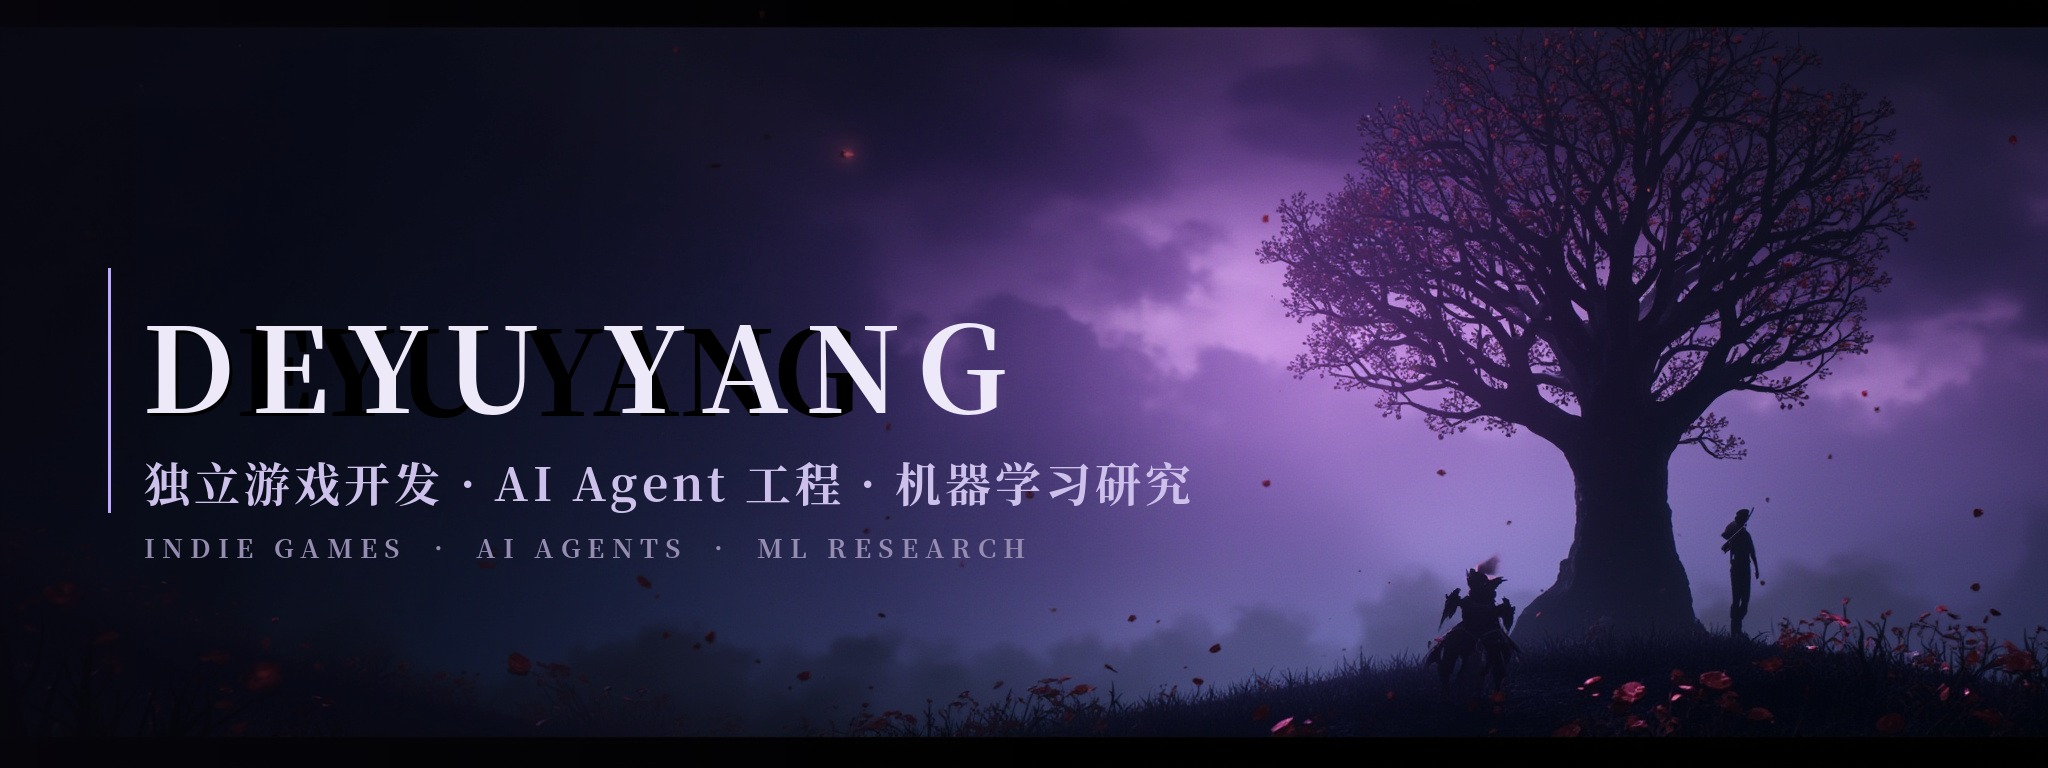
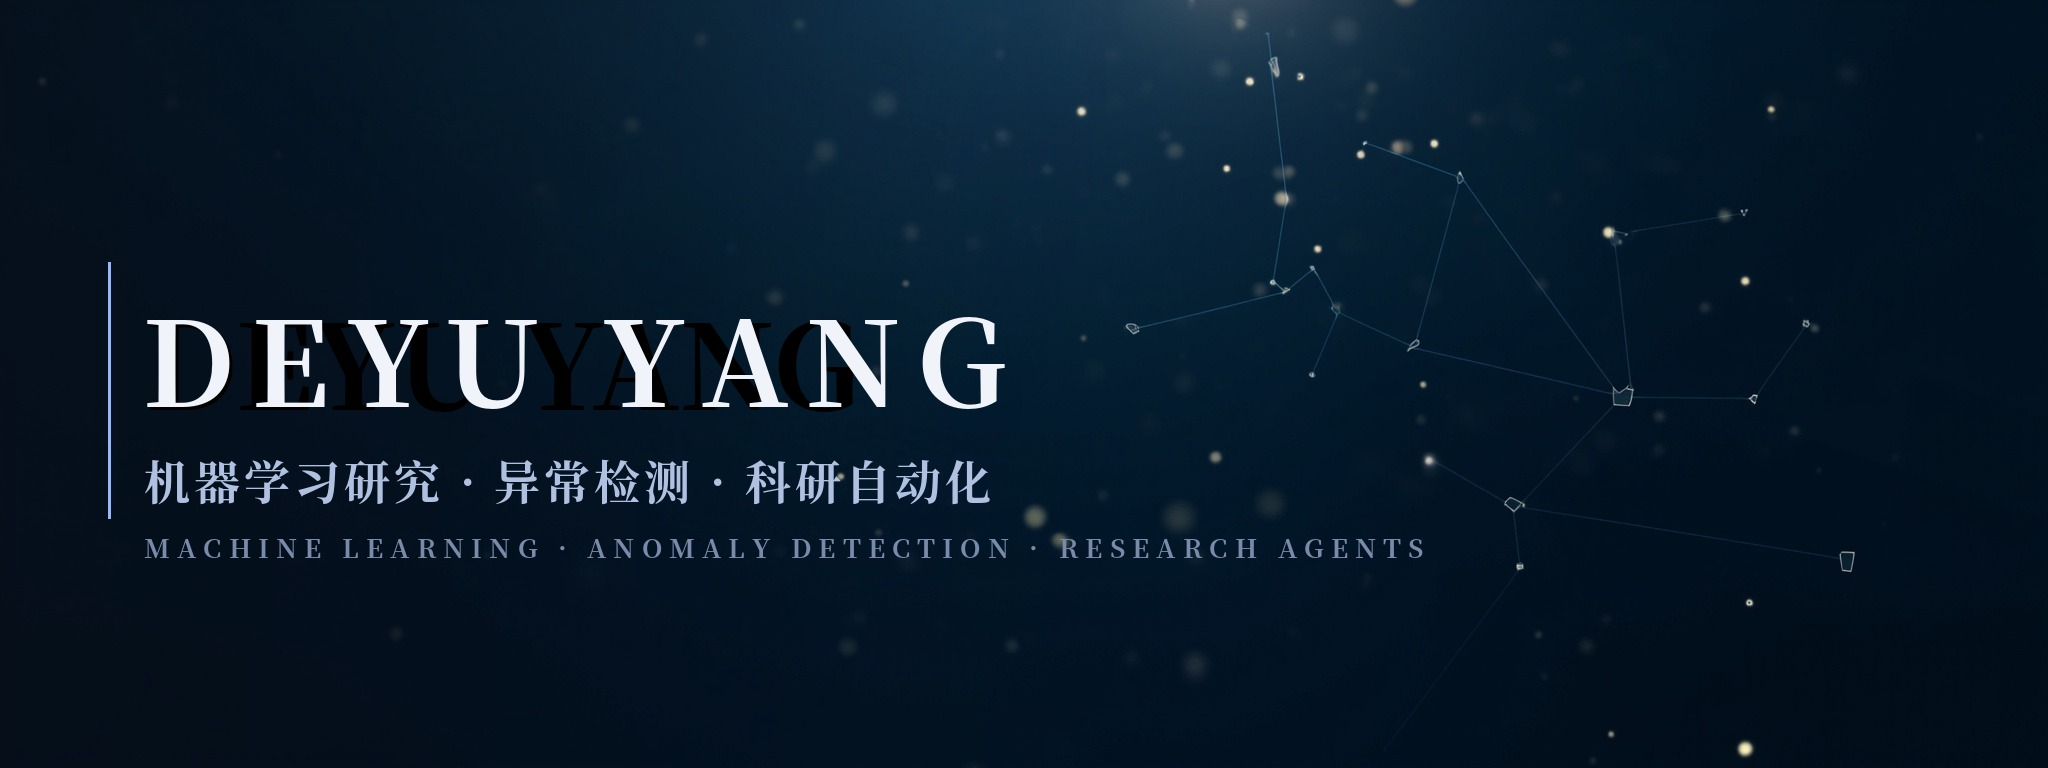
refactor: 主页改版为学术求职向 —— Publications/研究方向优先,游戏降为工程实践

diff --git a/README.md b/README.md
@@ -2,70 +2,69 @@
 
 <img src="assets/banner.jpg" alt="Deyu Yang" width="100%">
 
-[![](https://readme-typing-svg.demolab.com?font=Noto+Serif+SC&weight=600&size=22&pause=1600&color=C9BFE8&vCenter=true&random=false&width=640&lines=%E6%89%8B%E5%86%99+12500+%E8%A1%8C+Canvas+%E7%9A%84%E5%83%8F%E7%B4%A0+ARPG+%E4%BD%9C%E8%80%85;%E8%AE%A9+Agent+%E4%BB%8E%E6%96%87%E7%8C%AE%E7%BB%BC%E8%BF%B0%E4%B8%80%E8%B7%AF%E5%86%99%E5%88%B0+LaTeX+%E6%88%90%E7%A8%BF;%E5%81%9A+Training-Free+%E5%BC%82%E5%B8%B8%E6%A3%80%E6%B5%8B%E7%A0%94%E7%A9%B6;Good%20code%20is%20a%20loop%20%3E%20write%2C%20measure%2C%20refine.)](https://git.io/typing-svg)
+**Deyu Yang** · 机器学习方向 · 广东东莞
 
-**Deyu Yang** · 广东东莞 · 独立开发者
+研究做得扎实,工程做得干净 —— 相信可复现的实验与可维护的代码同样重要。
 
-**中文** / [English](#-english) · 我造游戏、造工具、也做研究 —— 相信「不重复造轮子」和「必要时亲手造引擎」并不矛盾。
+**中文** / [English](#-english)
 
 </div>
 
 ---
 
-## 🔭 正在做
+## 📄 论文发表 · Publications
 
-- 🌸 **[回声 · 枯荣之环](https://github.com/Deyu008/witherbloom-cycle)** — 无引擎、纯手写 Canvas 2D 的像素风动作 RPG：四章节双线结局（击败 / 释怀 BOSS）、Hades 式祝福构筑、程序生成地牢、WebAudio 全合成音频。**~12,500 行、53 个 ES 模块、零运行时依赖、216 项回归测试。**
-- 🧪 **[paperlab](https://github.com/Deyu008/paperlab)** — 开源论文研究 Agent harness：文献综述 → 实验规划 → 沙箱执行 → 结果解读 → LaTeX 成稿 → 自动同行评审。
-- 🔬 **[ALF](https://github.com/Deyu008/ALF)** — Sharpness-Aware Adaptive Layer Fusion，Training-Free 异常检测。
-- 📊 **[visulite](https://github.com/Deyu008/visulite)** — 科研数据快速可视化 / 预处理 / 图表导出工具。
+- **ALF: Sharpness-Aware Adaptive Layer Fusion for Training-Free Anomaly Detection**
+  *IEEE ICIP 2026* · 官方代码 → [Deyu008/ALF](https://github.com/Deyu008/ALF)
 
-## 🛠 技术栈
+## 🔬 研究方向 · Research Interests
+
+- **异常检测（Anomaly Detection）** — 免训练（training-free）推理时自适应、多尺度层融合、锐度感知（sharpness-aware）方法
+- **AI for Research / LLM Agents** — 科研工作流自动化的**可靠性**：实验结果可追溯、结构化防造假（anti-fabrication）设计
+- **科研工具链** — 数据处理 / 可视化 / 论文写作管线
+
+## 🚀 精选项目 · Selected Projects
+
+| 项目 | 说明 |
+|:---|:---|
+| **[paperlab](https://github.com/Deyu008/paperlab)** | 开源论文研究 Agent harness:文献综述 → 预注册实验计划 → 沙箱执行 → 结果解读 → LaTeX 成稿 → 多角色评审。核心是**结构化防造假**:数字必须来自实验记录、引用必须可审计;两个真实研究问题端到端验证。TypeScript,130 项测试,MIT |
+| **[ALF](https://github.com/Deyu008/ALF)** | ICIP 2026 论文官方代码 —— training-free 异常检测的自适应层融合 |
+| **[visulite](https://github.com/Deyu008/visulite)** | 科研数据快速可视化 / 预处理 / 图表导出工具(Python) |
+| **[witherbloom-cycle](https://github.com/Deyu008/witherbloom-cycle)** | 工程实践:无引擎手写 Canvas 2D 像素 ARPG —— 自研渲染(离屏烘焙、对象池稳态零分配)、分离轴瓦片碰撞、WebAudio 实时合成音频;~12,500 行 / 53 模块 / 零运行时依赖 / 216 项回归测试 |
+
+## 🛠 技术栈 · Skills
 
 <p>
-<img src="https://img.shields.io/badge/TypeScript-3178C6?style=for-the-badge&logo=typescript&logoColor=white" alt="TypeScript">
-<img src="https://img.shields.io/badge/JavaScript-F7DF1E?style=for-the-badge&logo=javascript&logoColor=black" alt="JavaScript">
-<img src="https://img.shields.io/badge/Kotlin-7F52FF?style=for-the-badge&logo=kotlin&logoColor=white" alt="Kotlin">
 <img src="https://img.shields.io/badge/Python-3776AB?style=for-the-badge&logo=python&logoColor=white" alt="Python">
+<img src="https://img.shields.io/badge/PyTorch-EE4C2C?style=for-the-badge&logo=pytorch&logoColor=white" alt="PyTorch">
+<img src="https://img.shields.io/badge/TypeScript-3178C6?style=for-the-badge&logo=typescript&logoColor=white" alt="TypeScript">
+<img src="https://img.shields.io/badge/LaTeX-008080?style=for-the-badge&logo=latex&logoColor=white" alt="LaTeX">
 </p>
 <p>
-<img src="https://img.shields.io/badge/Canvas_2D-自定义引擎-8F7BE0?style=for-the-badge&logo=html5&logoColor=white" alt="Canvas 2D">
-<img src="https://img.shields.io/badge/WebAudio-实时合成-D9730D?style=for-the-badge&logo=webaudio&logoColor=white" alt="WebAudio">
-<img src="https://img.shields.io/badge/PyTorch-EE4C2C?style=for-the-badge&logo=pytorch&logoColor=white" alt="PyTorch">
+<img src="https://img.shields.io/badge/Kotlin-7F52FF?style=for-the-badge&logo=kotlin&logoColor=white" alt="Kotlin">
 <img src="https://img.shields.io/badge/Node.js-339933?style=for-the-badge&logo=nodedotjs&logoColor=white" alt="Node.js">
+<img src="https://img.shields.io/badge/JavaScript-F7DF1E?style=for-the-badge&logo=javascript&logoColor=black" alt="JavaScript">
 </p>
 
-## 📊 GitHub 数据
+## 📊 GitHub 数据 · Stats
 
 <div align="center">
-<img src="https://github-readme-stats.vercel.app/api?username=Deyu008&show_icons=true&hide_border=true&bg_color=1a1b27&title_color=c099ff&icon_color=9ece6a&text_color=a9b1d6&ring_color=c099ff" height="165" alt="stats">
-<img src="https://github-readme-streak-stats.herokuapp.com?user=Deyu008&hide_border=true&background=1A1B27&stroke=1A1B27&ring=C099FF&fire=9ECE6A&currStreakLabel=C099FF&sideLabels=A9B1D6&dates=565F89&sideNums=A9B1D6&currStreakNum=B4F9F8" height="165" alt="streak">
+<img src="https://github-readme-stats.vercel.app/api?username=Deyu008&show_icons=true&hide_border=true&bg_color=1a1b27&title_color=7aa2f7&icon_color=9ece6a&text_color=a9b1d6&ring_color=7aa2f7" height="165" alt="stats">
+<img src="https://github-readme-stats.vercel.app/api/top-langs/?username=Deyu008&layout=compact&hide_border=true&bg_color=1a1b27&title_color=7aa2f7&text_color=a9b1d6&langs_count=8" height="165" alt="langs">
 <br>
-<img src="https://github-readme-stats.vercel.app/api/top-langs/?username=Deyu008&layout=compact&hide_border=true&bg_color=1a1b27&title_color=c099ff&text_color=a9b1d6&langs_count=8" height="165" alt="langs">
-</div>
-
-<div align="center">
-<img src="https://github-readme-activity-graph.vercel.app/graph?username=Deyu008&theme=tokyo-night&hide_border=true&area=true&custom_title=贡献曲线" width="100%" alt="activity">
-</div>
-
-<div align="center">
-<picture>
-  <source media="(prefers-color-scheme: dark)" srcset="https://raw.githubusercontent.com/Deyu008/Deyu008/output/github-contribution-grid-snake-dark.svg">
-  <source media="(prefers-color-scheme: light)" srcset="https://raw.githubusercontent.com/Deyu008/Deyu008/output/github-contribution-grid-snake.svg">
-  <img alt="contribution snake" src="https://raw.githubusercontent.com/Deyu008/Deyu008/output/github-contribution-grid-snake-dark.svg">
-</picture>
+<img src="https://github-readme-activity-graph.vercel.app/graph?username=Deyu008&theme=tokyo-night&hide_border=true&area=true" width="100%" alt="activity">
 </div>
 
 ---
 
 <div align="center">
 
-### 🌸 English
+### 🌐 English
 
-**Indie game dev · AI agent tooling · ML research.**
-Author of *Echoes: The Witherbloom Cycle* — a no-engine, hand-written Canvas 2D pixel ARPG (4 chapters, dual-route boss "reconciliation" endings, ~12.5k lines, 216 tests, zero runtime deps). Also building **paperlab**, an open-source paper-research agent harness, and **ALF**, training-free anomaly detection via adaptive layer fusion.
+ML researcher — **IEEE ICIP 2026** author (*ALF: training-free anomaly detection via sharpness-aware adaptive layer fusion*), building **[paperlab](https://github.com/Deyu008/paperlab)**, an open-source paper-research agent harness centered on structural anti-fabrication: every number traceable to a recorded experiment artifact. Also the engineer behind a 12.5k-line, zero-dependency, 216-test hand-written Canvas 2D engine.
 
-*"Don't break the loop — walk into the memory."*
+*Reproducible experiments. Maintainable code.*
 
-<img src="https://komarev.com/ghpvc/?username=Deyu008&style=flat-square&color=8F7BE0&label=visitors" alt="visitors">
+<img src="https://komarev.com/ghpvc/?username=Deyu008&style=flat-square&color=7aa2f7&label=profile+views" alt="views">
 
 </div>
